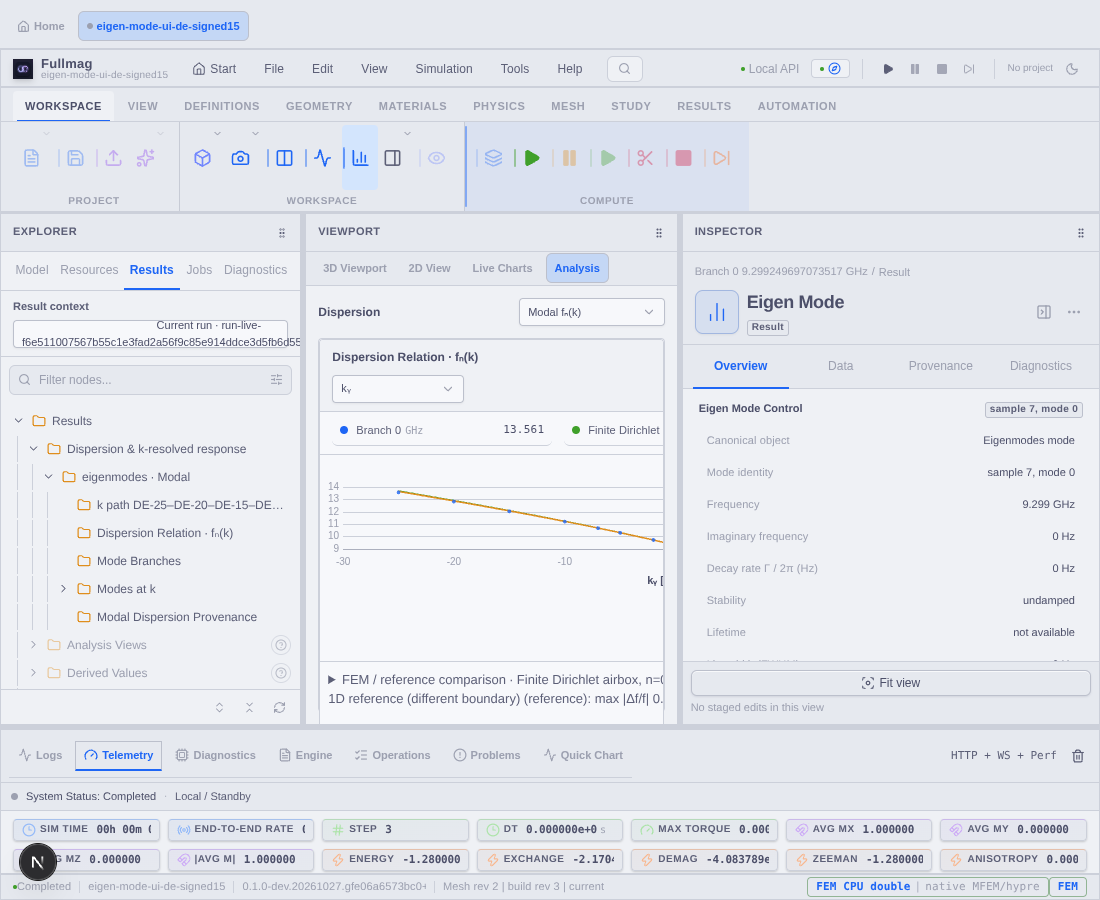
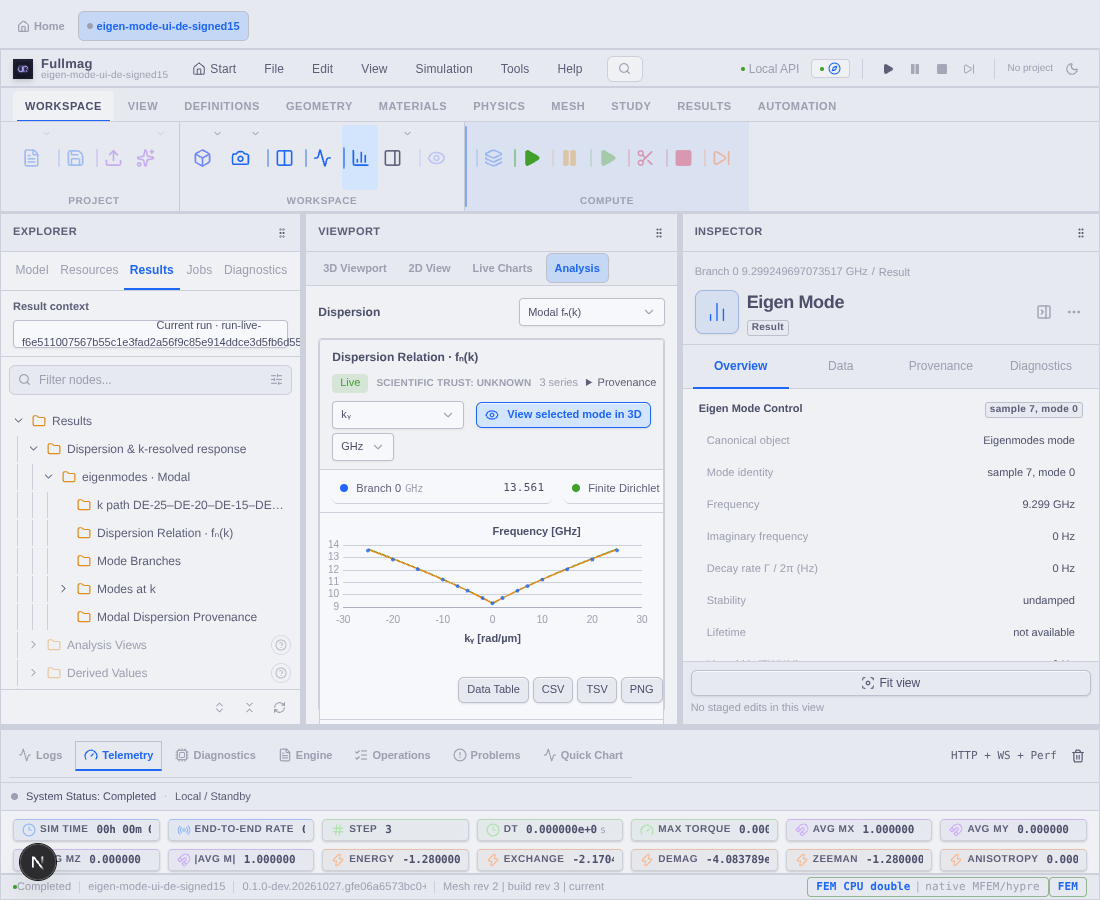
docs(eigensolve-ui): record passing UI acceptance and final mode screenshots

Changed region(s): [[0.2782, 0.4044, 0.6182, 0.7156], [0.3091, 0.7467, 0.6182, 0.8089]]

diff --git a/docs/audits/2026-10-27-eigensolve-modal-workbench-ui.md b/docs/audits/2026-10-27-eigensolve-modal-workbench-ui.md
@@ -47,7 +47,7 @@ node scripts/verify_eigensolve_modal_workbench_ui.mjs \
 
 Wstępna kontrola potwierdziła pola `sample-0000`, `sample-0003`, `sample-0007`, `sample-0011`, `sample-0014`, każde z 5127 wartościami zespolonymi bufora. To 3 składowe dla 1709 węzłów całej siatki; widoczna powierzchnia to sam ferromagnetyk. Ta liczba nie jest liczbą modów ani fizyczną amplitudą pobudzenia.
 
-Kontrola architektury frontendu: PASS. Składnia skryptu Node: PASS. Kompilowane testy uruchamiane wyłącznie w GitHub Actions. Pierwsze CI: typecheck/lint PASS, sześć regresji oczekiwań UI/kontraktu; poprawione bez usuwania kontroli wartości i identyfikatorów. Kolejne CI ujawniło niepoprawnie ogólny string trybu Spectrum; zastąpiony typowanym `free_modes`. Końcowy wynik CI i raport browserowy uzupełniane po ich zakończeniu.
+Kontrola architektury frontendu: PASS. Składnia skryptu Node: PASS. Kompilowane testy uruchamiane wyłącznie w GitHub Actions. Pierwsze CI: typecheck/lint PASS, sześć regresji oczekiwań UI/kontraktu; poprawione bez usuwania kontroli wartości i identyfikatorów. Kolejne CI ujawniło niepoprawnie ogólny string trybu Spectrum; zastąpiony typowanym `free_modes`. Końcowe wyniki CI i raport browserowy są zapisane w sekcji odbioru poniżej.
 
 ## Granice i dalsza praca
 
@@ -59,7 +59,7 @@ Kontrola architektury frontendu: PASS. Składnia skryptu Node: PASS. Kompilowane
 
 ## Dowody końcowego przebiegu browserowego
 
-Raport: [2026-10-27-eigensolve-modal-workbench-ui.evidence.json](2026-10-27-eigensolve-modal-workbench-ui.evidence.json). Interakcje sprawdzono na `2e3f45ed9`, a końcowy opis osi i zrzut na `d8fb82e30`.
+Raport: [2026-10-27-eigensolve-modal-workbench-ui.evidence.json](2026-10-27-eigensolve-modal-workbench-ui.evidence.json). Końcowy przebieg rzeczywistego UI i zrzuty pochodzą z `d99aa5b2c`; wybór stylu i selektor k sprawdzono dodatkowo na `f4728cb28`.
 
 - PASS: wszystkie 15 częstotliwości renderowanych punktów zgodne z opublikowanym spectrum.v2 (tolerancja porównania reprezentacji 1e-12).
 - PASS: pięć rzeczywistych przejść punkt→zespolone pole; próbki 0/3/7/11/14.
@@ -76,8 +76,20 @@ CI `40581494110` na `d8fb82e30`: typecheck/lint PASS, 8895 testów PASS, jedna r
 
 - `40582878262`, job `control-room-contracts`, commit `c6a5a2034`: PASS — typecheck, lint, 8896 testów (13 wcześniejszych pominiętych), dodatkowe 3 testy oraz produkcyjny build aplikacji.
 - `40583860596`, commit `c6a5a2034`: PASS — dedykowane kontrakty eigensolve UI, architektura, typowanie i React Doctor. Doctor: 90/100, 7 ostrzeżeń. Cztery nowe ostrzeżenia o łańcuchach iteracji w liście modów i porównaniu referencji poprawiono przez pojedyncze `flatMap` z warunkami. Pozostałe trzy wskazania dotyczą istniejącego importu zbiorczego w `ModeFieldOverlayIntent.ts` oraz istniejących eksportów helperów w plikach komponentów. Nie wyciszono reguł.
-- Szerszy job browserowy zatrzymał się w `qualifyModalArtifactOwnershipRace`: po nowym automatycznym otwarciu Analysis test oczekiwał widocznego płótna 3D bez przełączenia widoku. Fixture dostał jawne kliknięcie **3D Viewport** przed kontrolą shadera obiektu. Kontrole obcego runu, braku pobrania pola i zdrowego WebGL pozostają bez zmian. Ponowna bramka browserowa jest wymagana. Nazwa zbiorczego kroku CI obejmuje również DMI, ale log wskazał ten scenariusz modalny.
+- Szerszy job browserowy zatrzymał się w `qualifyModalArtifactOwnershipRace`: po nowym automatycznym otwarciu Analysis test oczekiwał widocznego płótna 3D bez przełączenia widoku. Fixture dostał jawne kliknięcie **3D Viewport** przed kontrolą shadera obiektu. Kontrole obcego runu, braku pobrania pola i zdrowego WebGL pozostają bez zmian. Ponowna bramka browserowa zakończyła się PASS w przebiegu `40589135703`. Nazwa zbiorczego kroku CI obejmuje również DMI, ale log wskazał ten scenariusz modalny.
 
 ![Dyspersja w głównym UI](../raports/assets/eigensolve-modal-workbench-20261027/dispersion-ui-1600.png)
 
 ![Rzeczywisty mod Gamma na samym ferromagnetyku](../raports/assets/eigensolve-modal-workbench-20261027/gamma-mode-ui.png)
+
+## Odbiór końcowy przebudowy UI
+
+- Commit kodu UI: `d99aa5b2cb39359f0e1ae7e3eb7c504d961db02f`.
+- [Pełna bramka frontendowa i browserowa 40589135703](https://github.com/MateuszZelent/fullmag/actions/runs/40589135703): **PASS** — typowanie, lint, 8897 testów (13 wcześniejszych pominiętych), 3 dodatkowe testy, produkcyjny build oraz pełny browser smoke. Test źródłowy nie uznaje już klikniętego punktu scatter za własnego konkurenta; próg izolacji innych punktów pozostał bez zmian.
+- [Dedykowana bramka eigensolve UI 40586700787](https://github.com/MateuszZelent/fullmag/actions/runs/40586700787): **PASS**, 1096 testów. React Doctor: 90/100; tylko 3 opisane wcześniej ostrzeżenia istniejącego kodu, bez czterech nowych ostrzeżeń iteracji.
+- Rzeczywisty UI: **PASS w zakresie benchmarku** — 15 zgodnych częstotliwości, obie referencje, pięć właściwych pól, widoczne płótna i sprawne WebGL (703×594, bez utraty kontekstu), obie osie i brak obcięcia w obu kierunkach przy 1600/1440/1100 px.
+- Wybór **Numerical points → Tracked branch lines → Numerical points** zachowuje dokładnie te same dane. Linie łączą wyłącznie opublikowane gałęzie; surowe mody i referencje zachowują odrębne znaczenie. Kontrolka znajduje się pod wykresem obok wyboru k.
+- Etykiety k budowane są jednym przebiegiem po danych; duży sweep nie skanuje całej serii osobno dla każdej opcji selektora.
+- Zwykły widok tabel/dynamiki zachowuje dotychczasowy nagłówek i provenance.
+
+Ten odbiór **nie zamyka** HTTP 500 katalogu artefaktów w starej binarce, FMS roundtrip ani naukowej kwalifikacji kompletności i zbieżności. Nie przebudowywano tutaj backendu ani nie ponawiano solvera.

diff --git a/docs/superpowers/plans/2026-10-27-eigensolve-modal-workbench.md b/docs/superpowers/plans/2026-10-27-eigensolve-modal-workbench.md
@@ -23,6 +23,6 @@ Zachować istniejące FMR, driven i dynamics. Dane serwerowe tylko przez resourc
 
 ## Checkpoint wdrożenia
 
-Etapy 1–3: kod wdrożony na branchu; główna dyspersja i pięć rzeczywistych pól potwierdzone w browserze. Etap 4: browserowa ścieżka benchmarku PASS; pełna bramka frontendowa i dedykowana bramka metodyczna PASS. Szersza bramka browserowa wymaga ponowienia po dostosowaniu jawnej nawigacji Analysis→3D w teście ownership-race. Starszy globalny Spectrum Inspector ma nową bramkę właściciela i testy, ale jego osobna ścieżka runtime pozostaje NOT VERIFIED.
+Etapy 1–3: wdrożone. Etap 4: PASS w zakresie benchmarku — pełne CI frontend/browser `40589135703`, metoda/Doctor `40586700787` oraz rzeczywiste pięć pól i piętnaście punktów na `d99aa5b2c`. Domyślne punkty FEM i opcjonalne linie opublikowanych gałęzi mają osobne, sprawdzone tryby.
 
-Dowody i otwarte ograniczenia: `docs/audits/2026-10-27-eigensolve-modal-workbench-ui.md`. HTTP 500 katalogu artefaktów, FMS roundtrip oraz naukowa kwalifikacja kompletności/zbieżności nie są zamknięte przez tę przebudowę UI.
+Dowody i ograniczenia: `docs/audits/2026-10-27-eigensolve-modal-workbench-ui.md`. HTTP 500 katalogu artefaktów, FMS roundtrip, osobna kwalifikacja starszego globalnego Spectrum na danych runtime oraz kompletność i zbieżność naukowa nie są zamknięte przez tę przebudowę UI.
